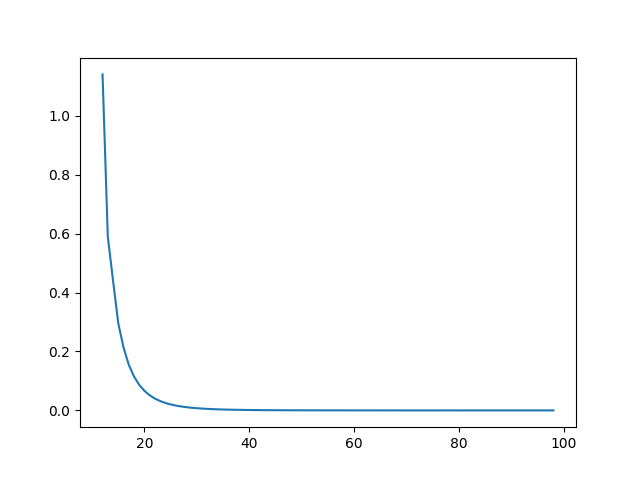
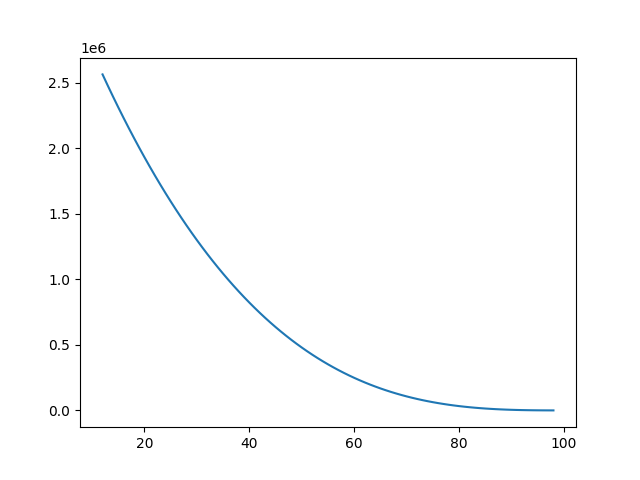
versao_final

diff --git a/questao2.py b/questao2.py
@@ -1,12 +1,16 @@
-# Baseado nos codigos vistos em aula
-# Tem que instalar ums bibliotecas: 
-    # python -m pip install --user numpy scipy matplotlib ipython jupyter pandas sympy nose
+# Baseado nos codigos apresentados em aula pelo professor
+# Deve-se instalar algumas bibliotecas: 
+    # python -m pip install --user numpy scipy matplotlib sympy 
 
 # Escolher o valor de k
 k = 100
 
-# Escolhar as condicoes d
+# Escolhar as condicoes:
+# Restricao natural (comente a linha 68)
 cond = 'natural'
+# Derivada conhecida nos extremos (remova o comentario da linha 68)
+A = 2.5
+B = 2.5
 
 import numpy as np
 import sympy as sym
@@ -59,6 +63,9 @@ def spline( ):
 
     # Aplicando o metodo spline interpolante usando a restricao natural
     cs = sci.CubicSpline(x_nodes, y_nodes, bc_type = ( cond ))
+
+    # Aplicando o metodo spline interpolante usando a restricao da derivada conhecida nos extremos
+    #cs = sci.CubicSpline(x_nodes, y_nodes, bc_type = ( (1, A), (1, B) ) )
 
     # Calcular o erro atual
     cs_x_eval = cs( x_eval )
